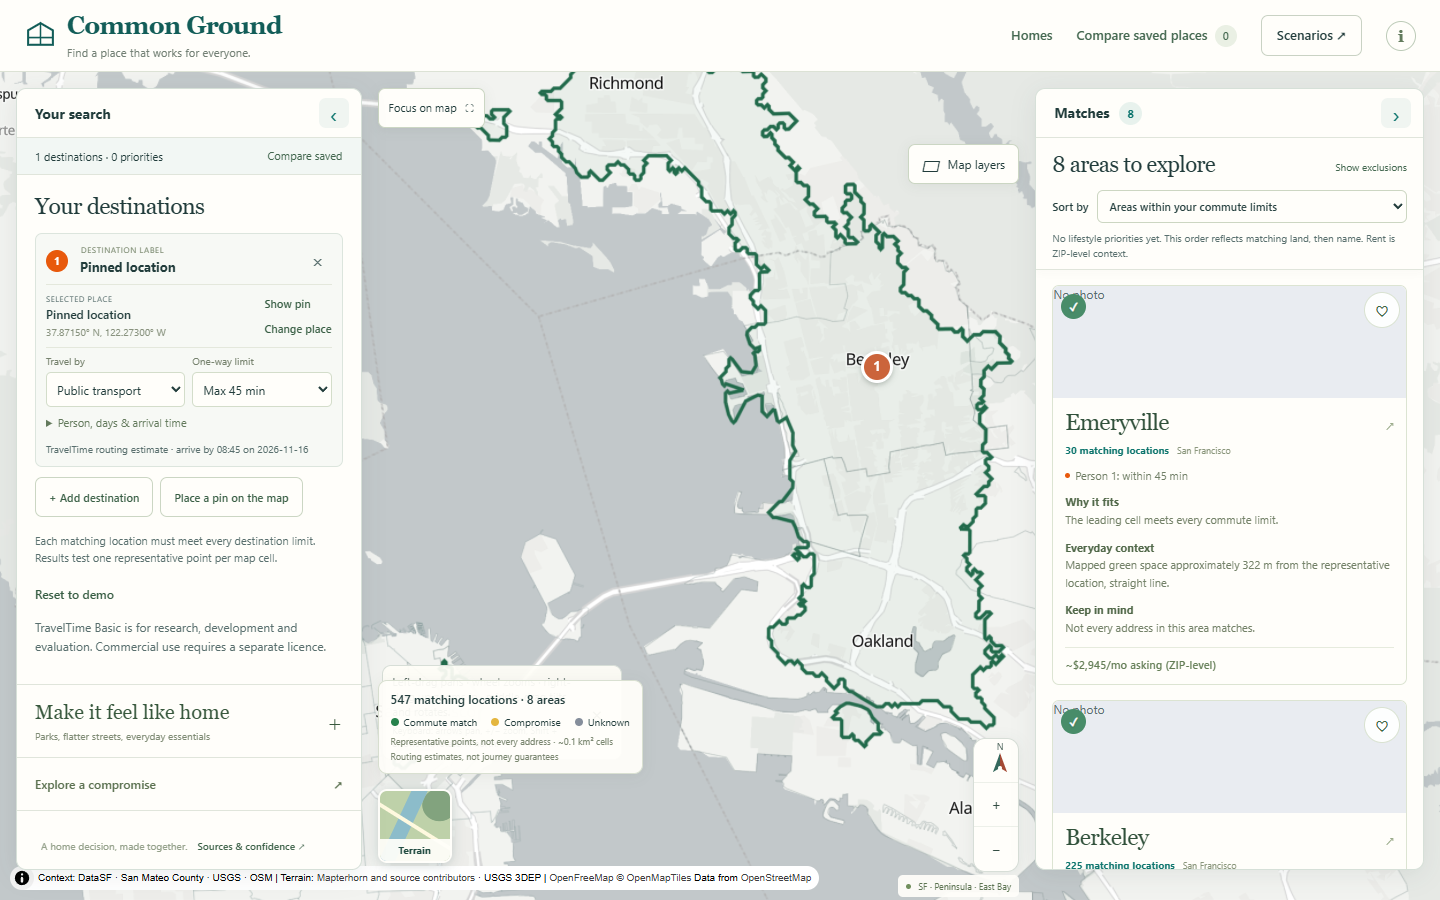
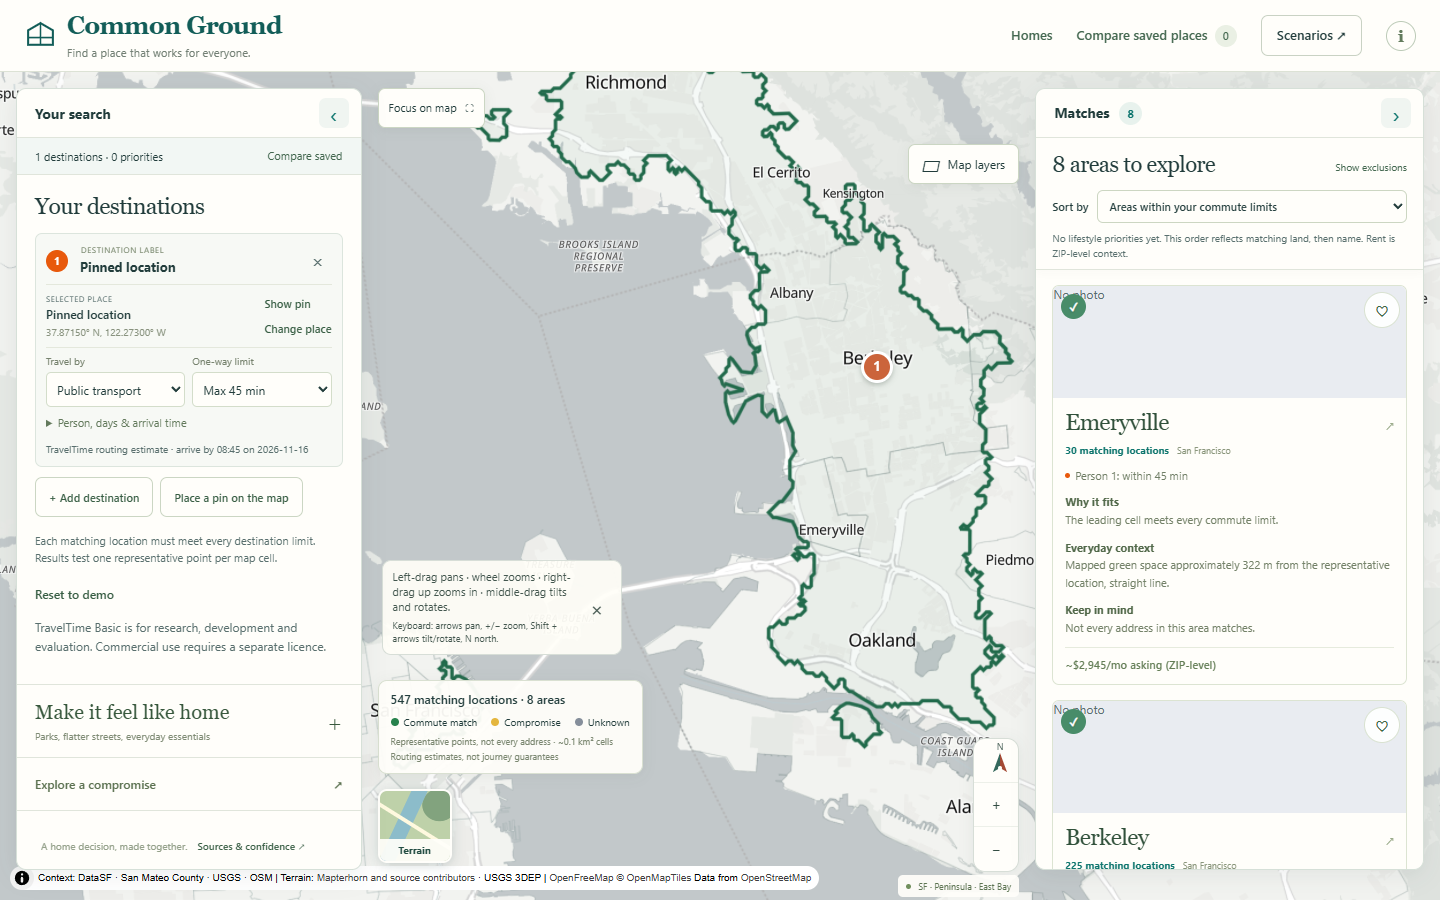
Record hosted verification and completed branch consolidation

diff --git a/docs/VERIFICATION.md b/docs/VERIFICATION.md
@@ -36,7 +36,7 @@ Crime tests preserve 47,808 unique incidents at each H3 level, shared filters an
 | 1440x900 | [Chrome](verification/1440-opening-chrome.png) | [Chrome](verification/1440-results-chrome.png) |
 | 1920x1080 | [Chrome](verification/1920-opening-chrome.png) | [Chrome](verification/1920-results-chrome.png) |
 
-[Short navigation demonstration](verification/navigation-chrome.webm), [satellite](verification/satellite-chrome.png), [wide crime columns](verification/crime-level-6.png), [district columns](verification/crime-level-7.png), [local columns](verification/crime-level-8.png), [WebGL recovery](verification/webgl-unavailable.png). Matching Edge screenshots and original desktop screenshots are retained alongside these artefacts.
+[Short navigation demonstration](verification/navigation-chrome.webm), [satellite](verification/satellite-chrome.png), [wide crime columns](verification/crime-level-6.png), [district columns](verification/crime-level-7.png), [local columns](verification/crime-level-8.png), [WebGL recovery](verification/webgl-unavailable.png). Matching Edge screenshots and original desktop screenshots are retained alongside these artefacts. The navigation recording is 16.6 seconds long.
 
 ## Live routing
 
@@ -44,7 +44,7 @@ Browser -> local `/api` -> TravelTime -> valid inbound MultiPolygon -> confirmed
 
 Adding custom San Mateo at 45 minutes correctly produced no joint match. Explicitly increasing both limits to 120 minutes produced 3,617 joint matching cells in 76 groups. Counts and ordered result IDs stayed identical after visiting Santa Clara and Berkeley at street zoom. This verifies complete-region matching independently of loaded display tiles. [Safe routing evidence](verification/live-routing.json), [joint results](verification/live-regional-joint.png).
 
-Authenticated Vercel metadata confirmed the existing server credentials and proxy configuration in preview and production, with no missing variable names. Hosted candidate build/health status is recorded below after publishing. The existing provider licence remains separate from successful evaluation access; commercial production rights are not established. No plan, payment method or billing resource was added.
+Authenticated Vercel metadata confirmed the existing server credentials and proxy configuration in preview and production, with no missing variable names. The deployed preview also passed the same complete browser-to-Vercel-to-TravelTime evaluation, with identical joint results. Hosted health now uses the same credential-free configuration as the local proxy and reports ready status, both presence flags, supported modes, direction, timezone and cap scope. See the hosted release record below. The existing provider licence remains separate from successful evaluation access; commercial production rights are not established. No plan, payment method or billing resource was added.
 
 ## Performance and asset measurements
 
@@ -70,7 +70,7 @@ Fresh production builds from the preserved original desktop commit and this cand
 
 The main bundle and first-search transfer decrease. Startup transfer rises with default terrain, and regional analysis has higher latency/retained memory for 4.9 times as many candidates. The committed canonical processed outputs total 57.70 MB; runtime sync deploys 26.68 MB by excluding duplicate full geometries and pipeline-only inputs. Original clipped terrain copies are retired. Main-page heap excludes workers and GPU memory; five samples cannot prove absence of every leak. Source/layer counts remained constant across all five candidate cycles (11 sources, 81 layers, two crime sources); no page errors occurred.
 
-[Asset byte counts](verification/asset-sizes.json), [before measurements](verification/baseline-combined/measurements.json), [after measurements](verification/performance/measurements.json). Gzip values in the asset report use the same Node compression settings for both builds. Reproduce with `scripts/report_assets.mjs` and `scripts/measure_desktop.mjs`; measure baseline/final serially without other browser load. The initial inherited working-copy data total differs from a fresh baseline because the old Windows sync left stale/generated files.
+[Asset byte counts](verification/asset-sizes.json), [before measurements](verification/baseline-combined/measurements.json), [after measurements](verification/performance/measurements.json). Gzip values in the asset report use the same Node compression settings for both builds. Reproduce with `scripts/report_assets.mjs` and `scripts/measure_desktop.mjs`; measure baseline/final serially without other browser load. Prepare the baseline by archiving ecfd5ae into ignored data/cache/baseline-checkout, running npm ci and a fixture-configured build there, then serving it at port 4181. Use CG_BASELINE=1 and CG_BASE_URL=http://localhost:4181/ for that measurement. For the candidate, unset CG_BASELINE, use the proxy-configured build and CG_BASE_URL=http://localhost:4179/. The initial inherited working-copy data total differs from a fresh baseline because the old Windows sync left stale/generated files.
 
 ## Coverage and remaining limits
 
@@ -82,4 +82,10 @@ Bounded regional OSM amenities/cycling requests failed; AC Transit's feed downlo
 
 Removed duplicate Leaflet rendering/context helpers and dependencies, obsolete mode state/CSS/buttons, clipped rendering DEM assets/builder, superseded capture/audit scripts, historical screenshots and repeated progress narratives. Current preprocessing, raw-source metadata/licences, stable IDs, migrations and regression tests remain. Source docs are README, CLAUDE and the architecture/data/deployment/decision/verification guides; the two analytical method references remain purposeful. [Retired path record](verification/retired-paths.json).
 
-All earlier named branch tips were ancestors of the chosen latest desktop base; no unexplained unique work was found. [Local tips](verification/branch-tips-before.txt), [remote tips](verification/remote-tips-before.txt). The candidate must be durably pushed before redundant references are removed. No force-push, destructive reset or production promotion is authorised by this report. Final PR, preview and branch-cleanup evidence is appended after publication.
+All earlier named branch tips were ancestors of the latest desktop base. After the candidate was durably pushed, four local feature/hack branches and three corresponding remote branches were removed with ancestry checks. Only production main and the single consolidation review branch remain. No unique work was discarded, no force-push/reset was used, and main was not promoted. [Original local tips](verification/branch-tips-before.txt), [original remote tips](verification/remote-tips-before.txt), [cleanup evidence](verification/branch-cleanup.json).
+
+## Review and deployment boundary
+
+[Draft PR #5](https://github.com/markfoth/SuperSet-Hackathon---SF/pull/5) contains the consolidated history. [Verified preview](https://common-ground-3052t1fbr-marks-projects-ebc07d95.vercel.app/) runs application commit ae0a636. The final follow-up records review evidence only. [Hosted verification](verification/hosted-verification.json) records successful custom browser routing and safe health, while [Linux data CI](https://github.com/markfoth/SuperSet-Hackathon---SF/actions/runs/43521500837) passes Python contracts and dataset validation. The initial CI omission of npm dependencies for the H3 helper was corrected with a pinned Node setup and dependency install.
+
+Production was independently rechecked: main remains e2b6fcc at deployment dpl_BdGaTe13D3yBj7CiMHJoN2NkhXiD. Approving a fast-forward/push of main will start the production deployment. That is the remaining approval boundary from the task brief; no production change was made during this iteration.

diff --git a/docs/DEPLOYMENT.md b/docs/DEPLOYMENT.md
@@ -2,6 +2,8 @@
 
 ## Current boundary
 
+Review [draft PR #5](https://github.com/markfoth/SuperSet-Hackathon---SF/pull/5) and the final status in VERIFICATION.md.
+
 main is the intended canonical branch. The validated candidate is built on the latest desktop refinement history, not the older production implementation. A production push is held for final review because Vercel's Git integration deploys main.
 
 Verified Vercel project: common-ground-sf, prj_QxzvTW1Jmy67t7DxULV3brat3Yei. The production alias is <https://common-ground-sf.vercel.app/>. The recorded production deployment is dpl_BdGaTe13D3yBj7CiMHJoN2NkhXiD from main at e2b6fccec2c430cd7c811768b83b8401c5d6f2ee. No production change is implied by a branch preview.
